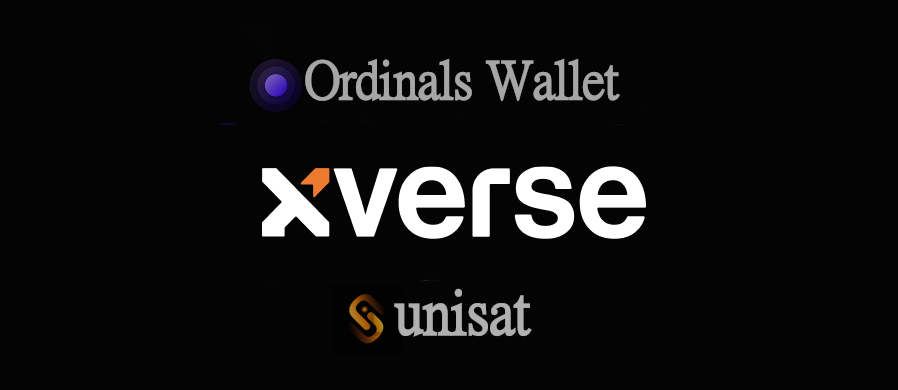
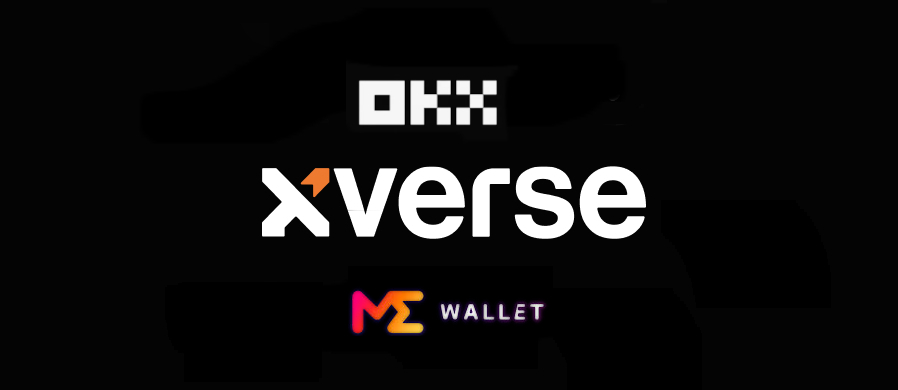
ordinal wallet setup -modify hero -modify recommended wallet list

Changed region(s): [[0.2806, 0.1538, 0.686, 0.3385], [0.3742, 0.7385, 0.6236, 0.8923]]

diff --git a/blog/bitcoin_ordinals_wallet_setup.md b/blog/bitcoin_ordinals_wallet_setup.md
@@ -7,7 +7,14 @@ date: "2025-08-12"
 category: "Guides"
 heroImage: "https://raw.githubusercontent.com/Linnyp/blogtest/main/images/heroes/walletselect.jpg"
 featured: false
-seoKeywords: ["bitcoin ordinals wallet", "ordinals wallet setup", "xverse wallet", "unisat wallet", "bitcoin wallet guide"]
+seoKeywords:
+  [
+    "bitcoin ordinals wallet",
+    "ordinals wallet setup",
+    "xverse wallet",
+    "unisat wallet",
+    "bitcoin wallet guide",
+  ]
 lastUpdated: "2025-08-12"
 ---
 
@@ -21,9 +28,9 @@ First task is choosing a Bitcoin Ordinals wallet provider, there's a growing lis
 
 [Xverse](https://www.xverse.app/download)
 
-[UniSat](https://unisat.io/download)
+[OKX](https://web3.okx.com/)
 
-[Ordinals](https://ordinalswallet.com/create-wallet)
+[Magic Eden](https://wallet.magiceden.io/)
 
 ## Step 2: Download & Install
 
